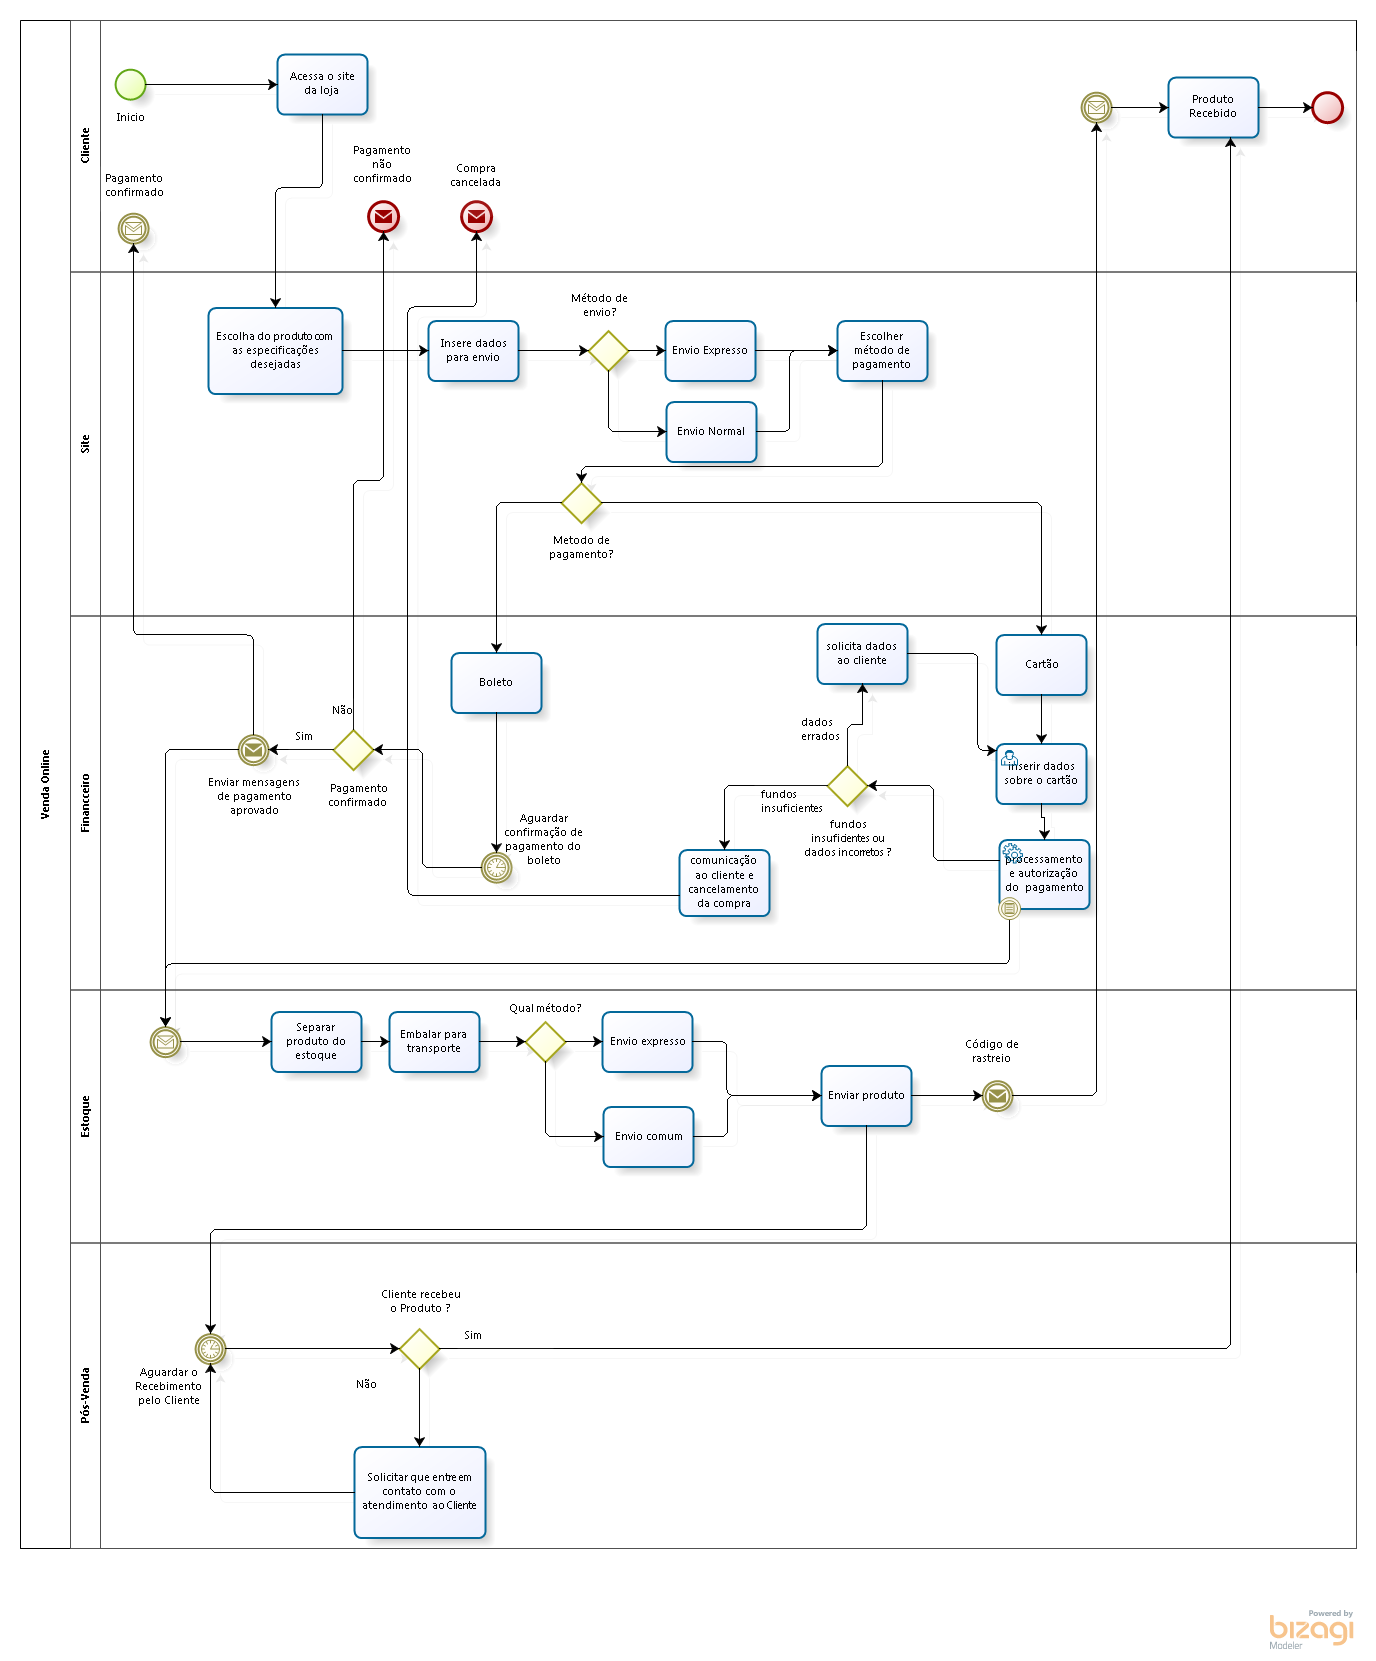
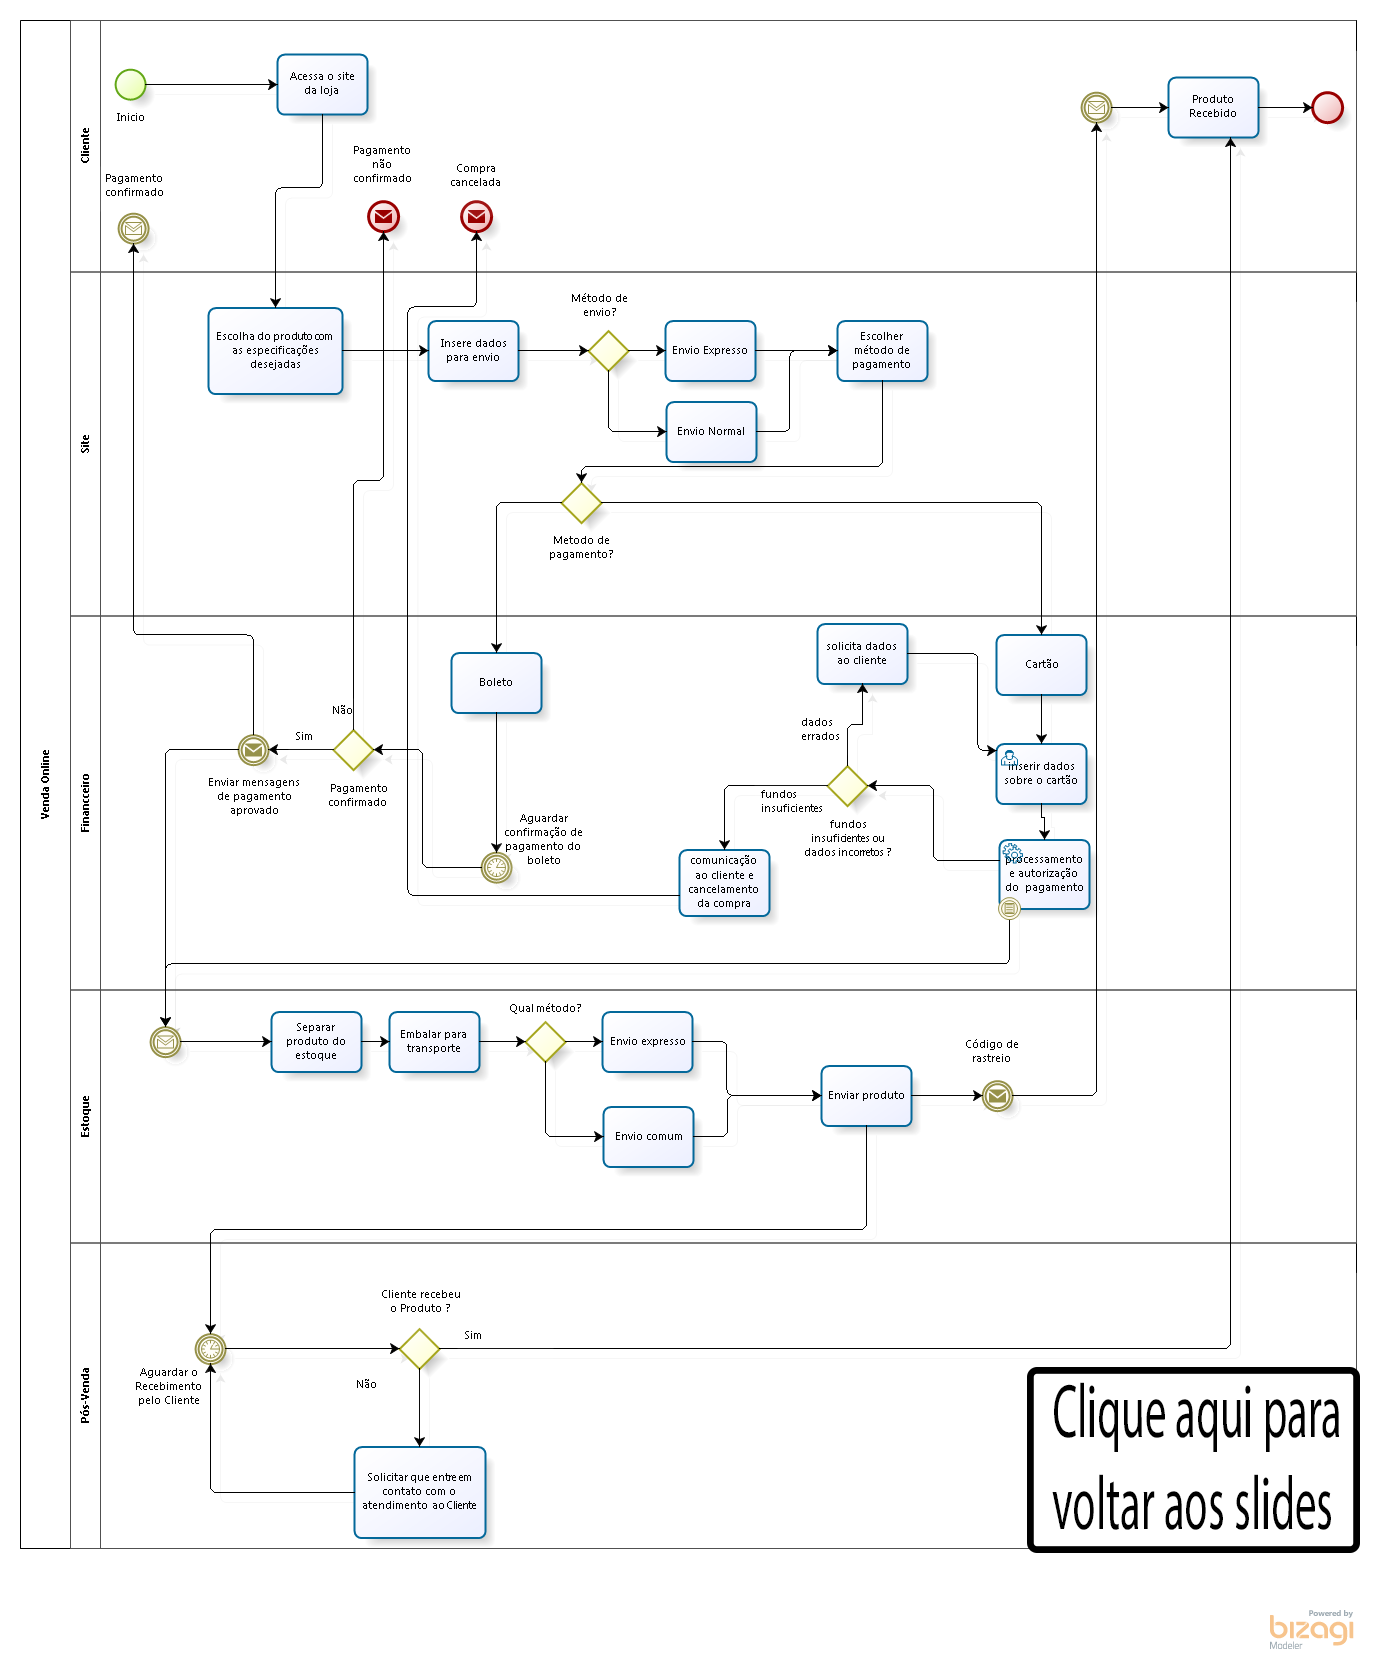
mapa na tela
adicionado botao no mapa no final da tela

Changed region(s): [[0.7188, 0.7983, 1.0, 0.9518]]

diff --git a/js/imageMapResizer.js b/js/imageMapResizer.js
@@ -1,0 +1,145 @@
+/*! Image Map Resizer
+ *  Desc: Resize HTML imageMap to scaled image.
+ *  Copyright: (c) 2014-15 David J. Bradshaw - dave@bradshaw.net
+ *  License: MIT
+ */
+
+(function(){
+    'use strict';
+
+    function scaleImageMap(){
+
+        function resizeMap() {
+            function resizeAreaTag(cachedAreaCoords,idx){
+                function scale(coord){
+                    var dimension = ( 1 === (isWidth = 1-isWidth) ? 'width' : 'height' );
+                    return padding[dimension] + Math.floor(Number(coord) * scalingFactor[dimension]);
+                }
+
+                var isWidth = 0;
+                areas[idx].coords = cachedAreaCoords.split(',').map(scale).join(',');
+            }
+
+            var scalingFactor = {
+                width  : image.width  / image.naturalWidth,
+                height : image.height / image.naturalHeight
+            };
+            
+            var padding = {
+                width  : parseInt(window.getComputedStyle(image, null).getPropertyValue('padding-left'), 10),
+                height : parseInt(window.getComputedStyle(image, null).getPropertyValue('padding-top'), 10)
+            };
+
+            cachedAreaCoordsArray.forEach(resizeAreaTag);
+        }
+
+        function getCoords(e){
+            //Normalize coord-string to csv format without any space chars
+            return e.coords.replace(/ *, */g,',').replace(/ +/g,',');
+        }
+
+        function debounce() {
+            clearTimeout(timer);
+            timer = setTimeout(resizeMap, 250);
+        }
+
+        function start(){
+            if ((image.width !== image.naturalWidth) || (image.height !== image.naturalHeight)) {
+                resizeMap();
+            }
+        }
+
+        function addEventListeners(){
+            image.addEventListener('load',  resizeMap, false); //Detect late image loads in IE11
+            window.addEventListener('focus',  resizeMap, false); //Cope with window being resized whilst on another tab
+            window.addEventListener('resize', debounce,  false);
+            window.addEventListener('readystatechange', resizeMap,  false);
+            document.addEventListener('fullscreenchange', resizeMap,  false);
+        }
+
+        function beenHere(){
+            return ('function' === typeof map._resize);
+        }
+
+        function getImg(name){
+            return document.querySelector('img[usemap="'+name+'"]');
+        }
+
+        function setup(){
+            areas                 = map.getElementsByTagName('area');
+            cachedAreaCoordsArray = Array.prototype.map.call(areas, getCoords);
+            image                 = getImg('#' + map.name) || getImg(map.name);
+            map._resize           = resizeMap; //Bind resize method to HTML map element
+        }
+
+        var
+            /*jshint validthis:true */
+            map   = this,
+            areas = null, cachedAreaCoordsArray = null, image = null, timer = null;
+
+        if (!beenHere()){
+            setup();
+            addEventListeners();
+            start();
+        } else {
+            map._resize(); //Already setup, so just resize map
+        }
+    }
+
+
+
+    function factory(){
+        function chkMap(element){
+            if(!element.tagName) {
+                throw new TypeError('Object is not a valid DOM element');
+            } else if ('MAP' !== element.tagName.toUpperCase()) {
+                throw new TypeError('Expected <MAP> tag, found <'+element.tagName+'>.');
+            }
+        }
+
+        function init(element){
+            if (element){
+                chkMap(element);
+                scaleImageMap.call(element);
+                maps.push(element);
+            }
+        }
+
+        var maps;
+
+        return function imageMapResizeF(target){
+            maps = [];  // Only return maps from this call
+
+            switch (typeof(target)){
+                case 'undefined':
+                case 'string':
+                    Array.prototype.forEach.call(document.querySelectorAll(target||'map'),init);
+                    break;
+                case 'object':
+                    init(target);
+                    break;
+                default:
+                    throw new TypeError('Unexpected data type ('+typeof target+').');
+            }
+
+            return maps;
+        };
+    }
+
+
+    if (typeof define === 'function' && define.amd) {
+        define([],factory);
+    } else if (typeof module === 'object' && typeof module.exports === 'object'){
+        module.exports = factory(); //Node for browserfy
+    } else {
+        window.imageMapResize = factory();
+    }
+
+
+    if('jQuery' in window) {
+        jQuery.fn.imageMapResize = function $imageMapResizeF(){
+            return this.filter('map').each(scaleImageMap).end();
+        };
+    }
+
+})();

diff --git a/js/imageMapResizer.min.js b/js/imageMapResizer.min.js
@@ -1,0 +1,8 @@
+/*! Image Map Resizer (imageMapResizer.min.js ) - v1.0.7 - 2018-05-01
+ *  Desc: Resize HTML imageMap to scaled image.
+ *  Copyright: (c) 2018 David J. Bradshaw - dave@bradshaw.net
+ *  License: MIT
+ */
+
+!function(){"use strict";function a(){function a(){function a(a,d){function e(a){var d=1===(f=1-f)?"width":"height";return c[d]+Math.floor(Number(a)*b[d])}var f=0;j[d].coords=a.split(",").map(e).join(",")}var b={width:l.width/l.naturalWidth,height:l.height/l.naturalHeight},c={width:parseInt(window.getComputedStyle(l,null).getPropertyValue("padding-left"),10),height:parseInt(window.getComputedStyle(l,null).getPropertyValue("padding-top"),10)};k.forEach(a)}function b(a){return a.coords.replace(/ *, */g,",").replace(/ +/g,",")}function c(){clearTimeout(m),m=setTimeout(a,250)}function d(){l.width===l.naturalWidth&&l.height===l.naturalHeight||a()}function e(){l.addEventListener("load",a,!1),window.addEventListener("focus",a,!1),window.addEventListener("resize",c,!1),window.addEventListener("readystatechange",a,!1),document.addEventListener("fullscreenchange",a,!1)}function f(){return"function"==typeof i._resize}function g(a){return document.querySelector('img[usemap="'+a+'"]')}function h(){j=i.getElementsByTagName("area"),k=Array.prototype.map.call(j,b),l=g("#"+i.name)||g(i.name),i._resize=a}var i=this,j=null,k=null,l=null,m=null;f()?i._resize():(h(),e(),d())}function b(){function b(a){if(!a.tagName)throw new TypeError("Object is not a valid DOM element");if("MAP"!==a.tagName.toUpperCase())throw new TypeError("Expected <MAP> tag, found <"+a.tagName+">.")}function c(c){c&&(b(c),a.call(c),d.push(c))}var d;return function(a){switch(d=[],typeof a){case"undefined":case"string":Array.prototype.forEach.call(document.querySelectorAll(a||"map"),c);break;case"object":c(a);break;default:throw new TypeError("Unexpected data type ("+typeof a+").")}return d}}"function"==typeof define&&define.amd?define([],b):"object"==typeof module&&"object"==typeof module.exports?module.exports=b():window.imageMapResize=b(),"jQuery"in window&&(jQuery.fn.imageMapResize=function(){return this.filter("map").each(a).end()})}();
+//# sourceMappingURL=imageMapResizer.map

diff --git a/index.html b/index.html
@@ -94,12 +94,20 @@
       </a>
     </div>
     <div>
-        <img align="center" src="docs/Processo%20de%20vendas.png" height="auto" width="100%">
-
+        <img align="center" src="docs/Processo%20de%20vendas.png" height="auto" width="100%" usemap="#mapa">
+        <map name="mapa">
+              <area shape="rect" coords="1026,1367,1359,1551" href="#">
+        </map>
     </div>
     <!-- jQuery first, then Popper.js, then Bootstrap JS -->
     <script src="js/jquery-3.2.1.slim.min.js"></script>
     <script src="js/popper.min.js"></script>
     <script src="js/bootstrap.min.js"></script>
+    <script type="text/javascript" src="js/imageMapResizer.min.js"></script>
+    <script type="text/javascript">
+
+		$('map').imageMapResize();
+
+	  </script>
   </body>
 </html>
